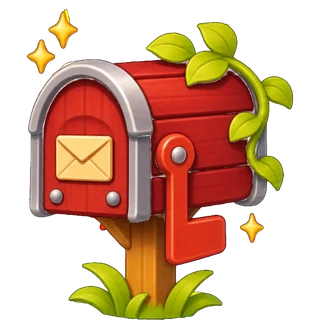
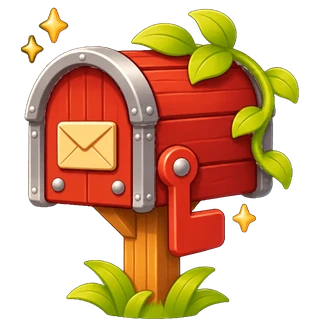
Nouvelles décos (bain d'oiseaux, panneau du village) à la place de l'arrosoir et de la boîte aux lettres ; nouvelles images de boîte aux lettres, placée en haut à droite du jardin ; trois gouttes sur le bouton Arroser (v2.23.0)
Claude-Session: https://claude.ai/code/session_018D5HKHn3DSYahUGNtVUd24

diff --git a/js/achievements.js b/js/achievements.js
@@ -12,7 +12,7 @@ const ACHIEVEMENTS = [
     tiers: [{ n: 10, c: 50, x: 20 }, { n: 100, c: 300, x: 80, deco: "gnome" }, { n: 1000, c: 2000, x: 300, title: "Main verte", bonus: "xp" }] },
   { id: "double", cat: "garden", name: "Récolte double", desc: "Obtenir une récolte double", value: () => st("doubles"), tiers: [{ n: 1, c: 50, x: 15 }] },
   { id: "full", cat: "garden", name: "Jardin plein", desc: "Avoir toutes ses parcelles plantées en même temps", value: () => st("fullGarden"), tiers: [{ n: 1, c: 40, x: 15 }] },
-  { id: "wet", cat: "garden", name: "Toujours humide", desc: n => `Récolter ${n} plantes qui n’ont jamais eu soif`, value: () => st("neverDry"), tiers: [{ n: 20, c: 150, x: 40, deco: "can" }] },
+  { id: "wet", cat: "garden", name: "Toujours humide", desc: n => `Récolter ${n} plantes qui n’ont jamais eu soif`, value: () => st("neverDry"), tiers: [{ n: 20, c: 150, x: 40, deco: "birdbath" }] },
   { id: "collector", cat: "garden", name: "Collectionneur", desc: "Récolter chacune des 12 plantes de base", value: () => ORDER.filter(k => !PLANTS[k].hybrid && !PLANTS[k].only && S.discovered.includes(k)).length,
     tiers: [{ n: 12, c: 400, x: 100, title: "Collectionneur", deco: "scarecrow" }] },
   { id: "seasons", cat: "garden", name: "Quatre saisons", desc: "Récolter les 8 plantes exclusives des saisons", value: () => ORDER.filter(k => PLANTS[k].only && S.discovered.includes(k)).length,
@@ -48,7 +48,7 @@ const ACHIEVEMENTS = [
   { id: "neighbor", cat: "village", name: "Bon voisin", desc: n => `Livrer ${n} commandes`, value: () => st("orders"),
     tiers: [{ n: 10, c: 100, x: 30 }, { n: 50, c: 600, x: 150, deco: "wheelbarrow" }, { n: 150, c: 2000, x: 400, title: "Pilier du village" }] },
   { id: "friends", cat: "village", name: "Ami de tous", desc: "Livrer une commande à chacun des voisins", value: () => (S.stats.served || []).length,
-    tiers: [{ n: VILLAGERS.length, c: 500, x: 120, title: "Ami du village", deco: "mailbox" }] },
+    tiers: [{ n: VILLAGERS.length, c: 500, x: 120, title: "Ami du village", deco: "signpost" }] },
   { id: "bigdelivery", cat: "village", name: "Grosse livraison", desc: "Livrer une commande de 500 pièces ou plus", value: () => st("bigOrder"), tiers: [{ n: 1, c: 200, x: 50 }] },
 
   { id: "fortune", cat: "eco", name: "Petite fortune", desc: n => `Avoir ${fmt(n)} pièces en même temps`, value: () => st("maxCoins"),
@@ -79,13 +79,16 @@ const ACHIEVEMENTS = [
 // XP des succès réduite d’un quart (2.12), arrondie à 5.
 ACHIEVEMENTS.forEach(ac => ac.tiers.forEach(t => { if (t.x) t.x = Math.max(5, Math.round(t.x * .75 / 5) * 5); }));
 const DECOS = {
-  gnome: "Nain de jardin", scarecrow: "Épouvantail", fence: "Petite clôture", can: "Arrosoir fleuri", birdhouse: "Nichoir",
-  hive: "Ruche", wheelbarrow: "Brouette de légumes", bench: "Banc fleuri", mailbox: "Boîte aux lettres", lantern: "Lanterne",
+  gnome: "Nain de jardin", scarecrow: "Épouvantail", fence: "Petite clôture", birdbath: "Bain d’oiseaux", birdhouse: "Nichoir",
+  hive: "Ruche", wheelbarrow: "Brouette de légumes", bench: "Banc fleuri", signpost: "Panneau du village", lantern: "Lanterne",
   rabbit: "Lapin doré", well: "Puits",
 };
 const DECO_ORDER = Object.keys(DECOS);
+// v3 : l'arrosoir et la boîte aux lettres deviennent le bain d'oiseaux et le panneau du village
+// (pour ne pas les confondre avec l'arrosage d'un ami et la boîte aux lettres du jardin).
+const DECO_RENAME = { can: "birdbath", mailbox: "signpost" };
 /* Taille relative de chaque décoration dans le jardin, proche des proportions réelles. */
-const DECO_SCALE = { gnome: .62, scarecrow: 1.3, fence: .9, can: .55, birdhouse: .85, hive: .85, wheelbarrow: .9, bench: 1, mailbox: .95, lantern: 1.2, rabbit: .7, well: 1.25 };
+const DECO_SCALE = { gnome: .62, scarecrow: 1.3, fence: .9, birdbath: .8, birdhouse: .85, hive: .85, wheelbarrow: .9, bench: 1, signpost: 1.05, lantern: 1.2, rabbit: .7, well: 1.25 };
 const decoSource = d => { for (const ach of ACHIEVEMENTS) for (let i = 0; i < ach.tiers.length; i++) if (ach.tiers[i].deco === d) return { ach, i }; return null; };
 const decoUnlocked = d => { const s = decoSource(d); return !!s && ((S.ach || {})[s.ach.id] || 0) > s.i; };
 const BONUS_TEXT = { xp: "+5 % d’XP sur tout", coins: "+5 % de pièces sur tout", cook: "Cuisson 10 % plus rapide" };

diff --git a/index.html b/index.html
@@ -6,13 +6,13 @@
   <title>Potager idle</title>
   <meta name="description" content="Un petit jeu idle de potager : plante, arrose, récolte, cuisine et découvre des variétés hybrides.">
   <meta name="theme-color" content="#fdf3e7" id="theme-color">
-  <link rel="manifest" href="manifest.webmanifest?v=315">
+  <link rel="manifest" href="manifest.webmanifest?v=316">
   <link rel="icon" href="icons/favicon-32.png" sizes="32x32" type="image/png">
   <link rel="icon" href="icons/favicon-64.png" sizes="64x64" type="image/png">
   <link rel="icon" href="icons/icon-192.png" sizes="192x192" type="image/png">
   <link rel="preload" href="fonts/nunito-latin.woff2" as="font" type="font/woff2" crossorigin>
   <link rel="preload" href="fonts/fredoka-latin.woff2" as="font" type="font/woff2" crossorigin>
-  <link rel="stylesheet" href="css/style.css?v=315">
+  <link rel="stylesheet" href="css/style.css?v=316">
 </head>
 <body>
 <div id="app">
@@ -44,22 +44,22 @@
 <div id="fx"></div>
 <div id="toasts" aria-live="polite"></div>
 
-<script src="js/env.js?v=315"></script>
-<script src="js/typo.js?v=315"></script>
-<script src="js/data.js?v=315"></script>
-<script src="assets/img/manifest.js?v=315"></script>
-<script src="js/art.js?v=315"></script>
-<script src="js/seasons.js?v=315"></script>
-<script src="js/sound.js?v=315"></script>
-<script src="js/achievements.js?v=315"></script>
-<script src="js/cloud-config.js?v=315"></script>
-<script src="js/cloud.js?v=315"></script>
-<script src="js/profile.js?v=315"></script>
-<script src="js/friends.js?v=315"></script>
-<script src="js/visit.js?v=315"></script>
-<script src="js/water.js?v=315"></script>
-<script src="js/trade.js?v=315"></script>
-<script src="js/tuto.js?v=315"></script>
-<script src="js/game.js?v=315"></script>
+<script src="js/env.js?v=316"></script>
+<script src="js/typo.js?v=316"></script>
+<script src="js/data.js?v=316"></script>
+<script src="assets/img/manifest.js?v=316"></script>
+<script src="js/art.js?v=316"></script>
+<script src="js/seasons.js?v=316"></script>
+<script src="js/sound.js?v=316"></script>
+<script src="js/achievements.js?v=316"></script>
+<script src="js/cloud-config.js?v=316"></script>
+<script src="js/cloud.js?v=316"></script>
+<script src="js/profile.js?v=316"></script>
+<script src="js/friends.js?v=316"></script>
+<script src="js/visit.js?v=316"></script>
+<script src="js/water.js?v=316"></script>
+<script src="js/trade.js?v=316"></script>
+<script src="js/tuto.js?v=316"></script>
+<script src="js/game.js?v=316"></script>
 </body>
 </html>

diff --git a/js/game.js b/js/game.js
@@ -1,7 +1,7 @@
 "use strict";
 /* Numéro de version affiché dans les Paramètres.
    À chaque mise à jour : changer APP_VERSION, le ?v= dans index.html et VERSION dans sw.js. */
-const APP_VERSION = "2.22.2" + (IS_TEST ? "-test" : "");
+const APP_VERSION = "2.23.0" + (IS_TEST ? "-test" : "");
 /* ---------------- Helpers ---------------- */
 const $ = s => document.querySelector(s);
 const now = () => Date.now();
@@ -91,6 +91,7 @@ function migrate(s) {
   if (s.orders) s.orders = s.orders.filter(o => Object.keys(o.items).every(k => PLANTS[k] || RECIPES[k]));
   // Panier et gants sont à acheter pour tout le monde : on retire ceux offerts par la version 0.17.0.
   if (!s.decoSlots) s.decoSlots = [null, null, null];
+  s.decoSlots = s.decoSlots.map(d => DECO_RENAME[d] || d);
   // 2.9.5 : recettes apprises alors que leur hybride n'était pas découvert → retirées et remboursées.
   if (!s.hybRefund && Array.isArray(s.recipes)) {
     const bad = s.recipes.filter(r => RECIPES[r] && Object.keys(RECIPES[r].need).some(k => PLANTS[k]?.hybrid && !(s.hybrids || []).includes(k)));

diff --git a/js/water.js b/js/water.js
@@ -4,7 +4,7 @@
    tous ses bacs sont arrosés et ses plantes poussent 20 % plus vite pendant 2 h.
    Les arrosages reçus sont gardés dans la sauvegarde (S.friendWater) ; la pousse en tient compte
    (growPlot dans game.js). Limites, comptées par le serveur : 2 arrosages reçus et 2 donnés par jour. */
-const FW_ICON = `<img class="fw-ico" src="assets/img/ui-friend-water.webp" alt="">`;
+const FW_ICON = `<svg class="fw-ico" viewBox="0 0 32 32" aria-hidden="true"><path d="M16 3c3.4 4.6 5.6 7.8 5.6 10.6a5.6 5.6 0 0 1-11.2 0C10.4 10.8 12.6 7.6 16 3z" fill="#3f9bdc"/><path d="M8.5 15c2.3 3.1 3.8 5.3 3.8 7.2a3.8 3.8 0 0 1-7.6 0c0-1.9 1.5-4.1 3.8-7.2zM23.5 15c2.3 3.1 3.8 5.3 3.8 7.2a3.8 3.8 0 0 1-7.6 0c0-1.9 1.5-4.1 3.8-7.2z" fill="#6cb8ec"/><path d="M14 11.5a2.6 2.6 0 0 0 1 3.2" stroke="#fff" stroke-width="1.4" stroke-linecap="round" fill="none" opacity=".7"/></svg>`; // trois gouttes
 const FW_KEEP = 26 * 3600e3; // les arrosages plus vieux ne servent plus
 
 // Arrosages qui font effet en ce moment : la « chaîne » d'arrosages qui se suivent sans interruption.

diff --git a/css/style.css b/css/style.css
@@ -1473,6 +1473,6 @@ button.brand { border: 0; background: none; padding: 0; cursor: pointer; }
 .garden-bar { margin: 6px 0; }
 /* Boîte aux lettres en haut à droite du jardin, sur une bande d'herbe au-dessus des bacs :
    toujours visible, quel que soit le nombre de parcelles, sans cacher de bac. */
-.garden:has(> .mailbox) { --mtop: 18cqw; padding-top: calc(var(--g) + 18%); }
+.garden:has(> .mailbox) { --mtop: 12cqw; padding-top: calc(var(--g) + 12%); overflow: clip; overflow-clip-margin: 18px; }
 .garden:has(> .mailbox) .deco-row .deco-slot.s1 { top: calc(var(--mtop) + var(--g) + (100cqw - 2 * var(--g)) * .93 / var(--cols) * 1.008 - 8cqw); }
-.garden > .mailbox { top: 0; right: 2%; bottom: auto; width: 25%; height: auto; aspect-ratio: 1; max-width: none; }
+.garden > .mailbox { top: -16px; right: 2%; bottom: auto; width: 20%; height: auto; aspect-ratio: 1; max-width: none; } /* dépasse un peu au-dessus du jardin, sans toucher le texte */

diff --git a/js/visit.js b/js/visit.js
@@ -22,7 +22,7 @@ function visitState(d) {
   });
   const slots = Array.isArray(d.decoSlots) ? d.decoSlots : [];
   return {
-    plots, decoSlots: [0, 1, 2].map(i => DECOS[slots[i]] ? slots[i] : null),
+    plots, decoSlots: [0, 1, 2].map(i => { const d = DECO_RENAME[slots[i]] || slots[i]; return DECOS[d] ? d : null; }),
     decoOff: Array.isArray(d.decoOff) ? d.decoOff : [], decoFlip: Array.isArray(d.decoFlip) ? d.decoFlip : [],
     upg: { water: lvl(d.upg?.water, UPG.water.values.length - 1), fert: lvl(d.upg?.fert, UPG.fert.values.length - 1), auto: lvl(d.upg?.auto, 1) },
     discovered: list(d.discovered), hybrids: list(d.hybrids), goldenFound: list(d.goldenFound), level: Math.max(1, +d.level || 1),

diff --git a/sw.js b/sw.js
@@ -1,6 +1,6 @@
 /* Service worker de Potager idle : rend le jeu jouable hors-ligne.
    À chaque mise à jour du jeu, augmente VERSION pour que les téléphones téléchargent la nouvelle version. */
-const VERSION = "potager-v315";
+const VERSION = "potager-v316";
 const FILES = [
   "./",
   "index.html",

diff --git a/docs/progression.md b/docs/progression.md
@@ -1,6 +1,6 @@
 # Progression et équilibrage
 
-*Généré automatiquement par `node tools/progression.js` · version 2.16.0 du jeu. Ne pas modifier à la main.*
+*Généré automatiquement par `node tools/progression.js` · version 2.23.0 du jeu. Ne pas modifier à la main.*
 
 ## Courbe d'XP
 
@@ -193,7 +193,7 @@ Temps de pousse sans compost ni bonus de saison (+25 % de vitesse pendant la sai
 |  | 3 | Récolter 1000 plantes | 2 000 | 225 | titre « Main verte », +5 % d’XP sur tout |
 | Récolte double |  | Obtenir une récolte double | 50 | 10 |  |
 | Jardin plein |  | Avoir toutes ses parcelles plantées en même temps | 40 | 10 |  |
-| Toujours humide |  | Récolter 20 plantes qui n’ont jamais eu soif | 150 | 30 | déco Arrosoir fleuri |
+| Toujours humide |  | Récolter 20 plantes qui n’ont jamais eu soif | 150 | 30 | déco Bain d’oiseaux |
 | Collectionneur |  | Récolter chacune des 12 plantes de base | 400 | 75 | titre « Collectionneur », déco Épouvantail |
 | Quatre saisons | 1 | Récolter les 8 plantes exclusives des saisons | 150 | 30 |  |
 |  | 2 | Récolter les 8 plantes exclusives des saisons | 1 500 | 225 | titre « Jardinier des saisons » |
@@ -223,7 +223,7 @@ Temps de pousse sans compost ni bonus de saison (+25 % de vitesse pendant la sai
 | Bon voisin | 1 | Livrer 10 commandes | 100 | 25 |  |
 |  | 2 | Livrer 50 commandes | 600 | 115 | déco Brouette de légumes |
 |  | 3 | Livrer 150 commandes | 2 000 | 300 | titre « Pilier du village » |
-| Ami de tous |  | Livrer une commande à chacun des voisins | 500 | 90 | titre « Ami du village », déco Boîte aux lettres |
+| Ami de tous |  | Livrer une commande à chacun des voisins | 500 | 90 | titre « Ami du village », déco Panneau du village |
 | Grosse livraison |  | Livrer une commande de 500 pièces ou plus | 200 | 40 |  |
 | Petite fortune | 1 | Avoir 1000 pièces en même temps | 0 | 40 |  |
 |  | 2 | Avoir 10000 pièces en même temps | 0 | 150 |  |

diff --git a/docs/v3-amis.md b/docs/v3-amis.md
@@ -63,7 +63,7 @@ Les jours changent à minuit, heure de Paris, et sont comptés par le serveur.
 - ✅ v2.20.1 : balance en deux jauges rondes autour d'une petite balance ; « Nouvel échange » mène à l'onglet Amis ; croix au lieu des boutons « Fermer », plus de barre de glissement sur les fenêtres ; moins de messages en bas de l'écran ; nouvelles gardées dans la partie (une non lue reste, une lue s'efface après 24 h ou 7 jours).
 - ✅ v2.20.2 : toucher un ami ouvre la conversation ; recherche dans la liste d'amis ; code ami compact ; « Nouvel échange » ouvre l'onglet Amis avec les boutons ⇄ en couleur ; la conversation reste en bas après une action ; choix de la saison dans les Paramètres de la version de test.
 - ✅ v2.22 : images définitives de la boîte aux lettres (`ui-mail-empty`, `ui-mail-full`, drapeau levé quand il y a du courrier) et de l'arrosoir d'ami (`ui-friend-water`). La boîte est en bas à droite du jardin, plus grande, avec une marge sous le jardin.
-- Décos à remplacer (images à venir) : Arrosoir → bain d'oiseaux ou tonneau de pluie ; Boîte aux lettres → panneau du village ou moulin à vent. Même succès, déco échangée automatiquement chez ceux qui l'ont déjà.
+- ✅ v2.23 : boîte aux lettres rouge en haut à droite du jardin (dépasse un peu au-dessus) ; bouton Arroser avec trois gouttes. Décos remplacées : Arrosoir fleuri → **Bain d'oiseaux** (`birdbath`, succès « Toujours humide »), Boîte aux lettres → **Panneau du village** (`signpost`, succès « Ami de tous »). Les joueurs qui les avaient placées gardent la nouvelle au même endroit.
 
 ## Conseils de Mamie Lapine pour la v3
 
